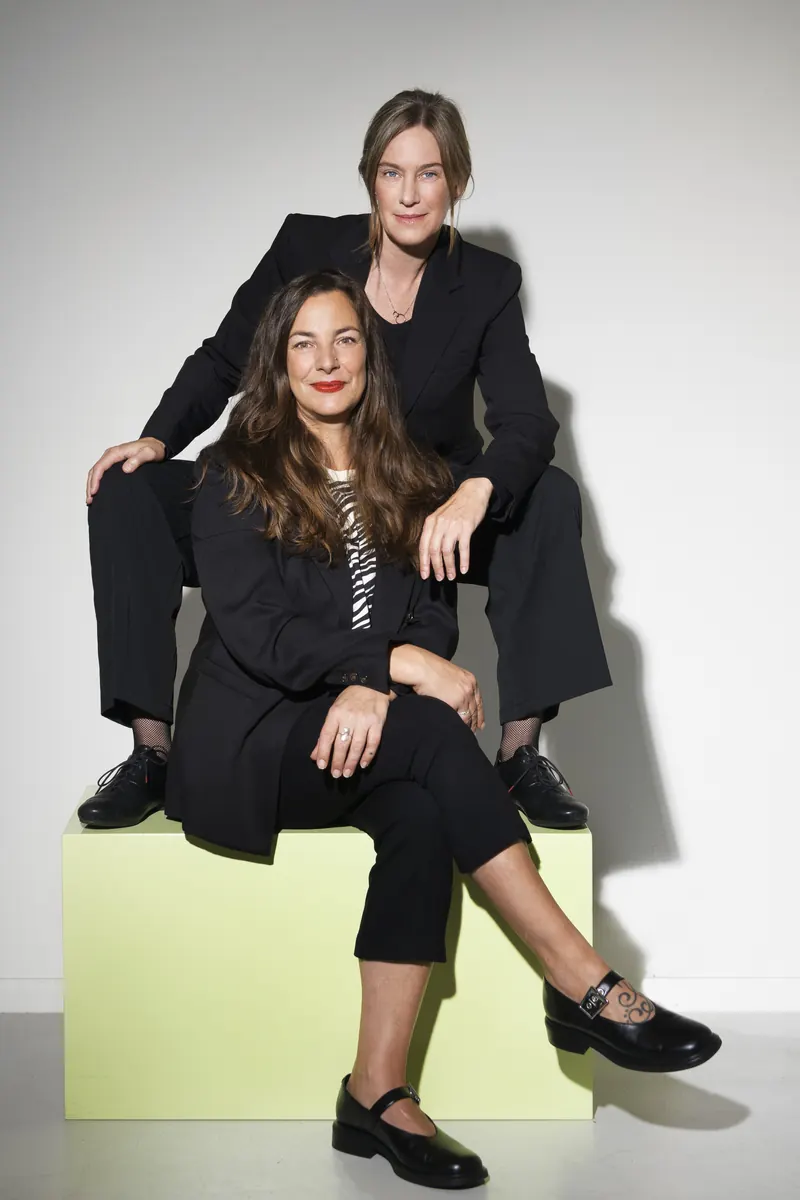
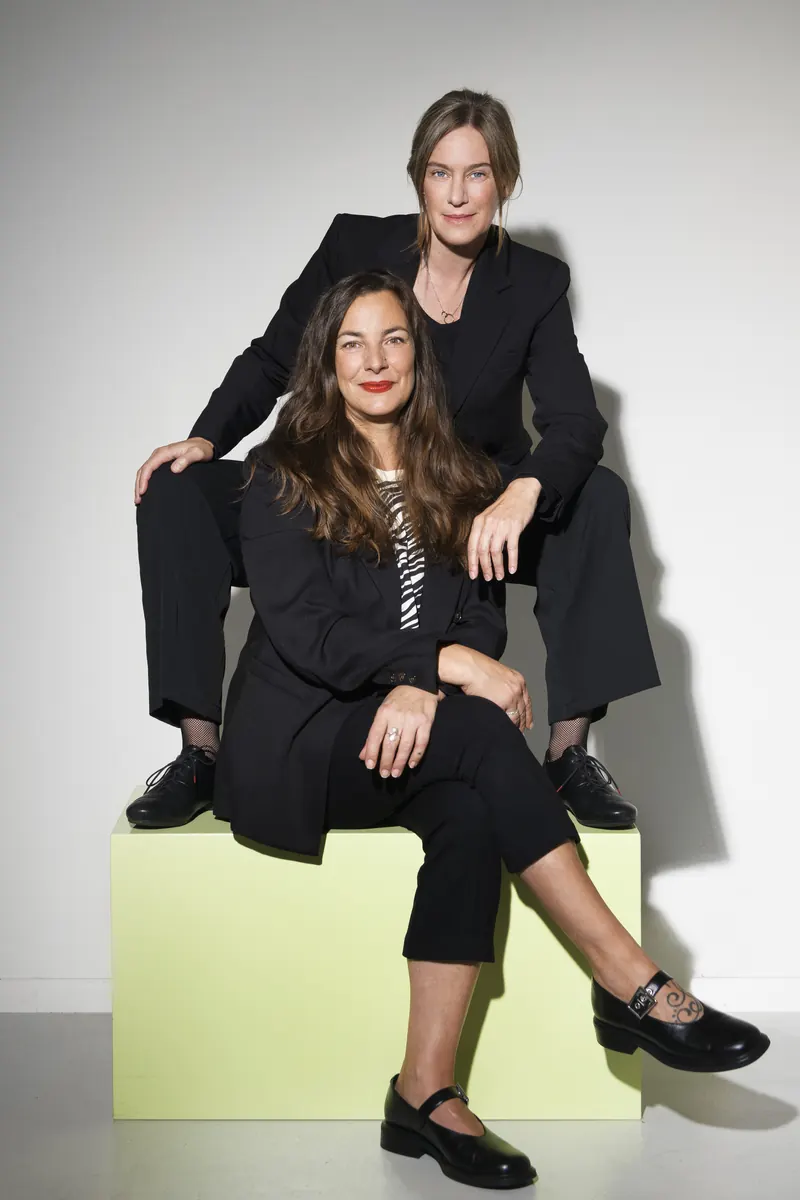
improve

diff --git a/frontend/src/components/HeroSection.styled.ts b/frontend/src/components/HeroSection.styled.ts
@@ -4,10 +4,11 @@ import { enter, settle } from '../motion'
 
 /**
  * Hero füllt zusammen mit der Navigationsleiste genau den Bildschirm.
- * Mobil: Foto vollflächig, Schrift auf Balken. Ab 1024px: Pink, Foto rechts, Text links.
+ * Mobil: Foto vollflächig, Schrift auf Balken. Daneben-Layout (media.hero): Pink, Foto rechts.
  */
 export const HeroBand = styled.section`
   --hero-x: max(clamp(1.25rem, 5.5vw, 5rem), calc((100% - 1600px) / 2));
+  --photo-w: min(540px, 38vw, calc((100svh - ${({ theme }) => theme.navHeight}) * 0.62));
   position: relative;
   overflow: hidden;
   height: calc(100vh - ${({ theme }) => theme.navHeight});
@@ -35,60 +36,72 @@ export const Photo = styled.div`
   }
 
   ${media.hero} {
-    inset: ${({ theme }) => theme.spacing.xxl} var(--hero-x) 0 auto;
-    width: min(540px, 38%);
+    inset: clamp(1rem, 7svh, 4rem) var(--hero-x) 0 auto;
+    width: var(--photo-w);
     border: ${({ theme }) => theme.borderStructural};
     border-bottom: none;
 
     img {
-      object-position: 50% 15%;
+      object-position: 50% 10%;
     }
   }
 `
 
+/**
+ * Textblock. Mobil unten, exakt mittig. Daneben-Layout: mittig in der Fläche links vom Foto.
+ * Container, damit die Schriftgrösse sich nach der verfügbaren Breite richtet.
+ */
 export const Content = styled.div`
   position: absolute;
   z-index: 1;
   left: var(--hero-x);
   right: var(--hero-x);
   bottom: clamp(1.5rem, 5svh, 3rem);
+  container-type: inline-size;
+  text-align: center;
 
   ${media.hero} {
     top: 0;
     bottom: 0;
+    right: calc(var(--photo-w) + 2 * var(--hero-x));
     display: flex;
     flex-direction: column;
+    align-items: center;
     justify-content: center;
   }
 `
 
 export const Title = styled.h1`
+  display: flex;
+  flex-direction: column;
+  align-items: center;
   font-weight: 400;
   font-size: inherit;
 `
 
+/** «zusammen» ist rund 3.75em breit: 24cqi lässt mobil Platz für die Balken-Innenabstände. */
 export const Slogan = styled.span`
   display: flex;
   flex-direction: column;
-  align-items: flex-start;
+  align-items: center;
   gap: 6px;
   font-family: var(--font-display);
   font-weight: 400;
-  font-size: clamp(2.75rem, min(10svh, 21vw), 5.5rem);
+  font-size: clamp(2.5rem, min(10svh, 24cqi), 6rem);
   line-height: 1;
   letter-spacing: 0.025em;
   text-transform: lowercase;
 
   ${media.hero} {
     gap: 0;
-    font-size: clamp(6rem, min(12.5vw, 22svh), 11.25rem);
+    font-size: clamp(2.5rem, min(25cqi, 22svh), 11.25rem);
     line-height: 0.92;
-    margin-left: -0.02em;
   }
 `
 
+/** padding-left in Höhe des letter-spacing, damit der Nachlauf die Mitte nicht verschiebt. */
 export const Bar = styled.span`
-  padding: 4px 14px 6px;
+  padding: 4px 14px 6px calc(14px + 0.025em);
   background: ${({ theme }) => theme.colors.paper};
   white-space: nowrap;
   ${enter(100)}
@@ -98,14 +111,14 @@ export const Bar = styled.span`
   }
 
   ${media.hero} {
-    padding: 0;
+    padding: 0 0 0 0.025em;
     background: none;
   }
 `
 
 export const Claim = styled.span`
   display: inline-block;
-  max-width: 300px;
+  max-width: min(300px, 100%);
   margin-top: 10px;
   padding: ${({ theme }) => `${theme.spacing.sm} 12px`};
   background: ${({ theme }) => theme.colors.ink};
@@ -113,14 +126,15 @@ export const Claim = styled.span`
   font-weight: 700;
   font-size: 0.9375rem;
   line-height: 1.25;
+  text-wrap: balance;
   ${enter(320)}
 
   ${media.hero} {
     max-width: 520px;
-    margin-top: ${({ theme }) => theme.spacing.xl};
+    margin-top: clamp(1rem, 4svh, 2rem);
     padding: 0;
     background: none;
     color: ${({ theme }) => theme.colors.ink};
-    font-size: clamp(1.25rem, 1.8vw, 1.625rem);
+    font-size: clamp(1rem, min(1.8vw, 3.2svh), 1.625rem);
   }
 `

diff --git a/frontend/src/components/AboutPhoto.styled.ts b/frontend/src/components/AboutPhoto.styled.ts
@@ -40,7 +40,7 @@ const Hit = styled.button`
 
 /** Hintere Person (Nicole Wyss): Rechteck, liegt im DOM vor der vorderen. */
 export const HitBack = styled(Hit)`
-  left: 7.9%;
+  left: 13.9%;
   top: 6.6%;
   width: 73.7%;
   height: 65.8%;
@@ -50,31 +50,31 @@ export const HitBack = styled(Hit)`
 export const HitFront = styled(Hit)`
   inset: 0;
   clip-path: polygon(
-    33.8% 23.2%,
-    40.5% 22.4%,
-    45.3% 26.1%,
-    50.1% 30.5%,
-    52.9% 35%,
-    53.9% 40%,
-    52.5% 42%,
-    52.5% 48.3%,
-    56.4% 48.9%,
-    56.8% 54.1%,
-    61.1% 57.6%,
-    61.1% 60.5%,
-    62.1% 62.4%,
-    60.7% 64.3%,
-    61.6% 69.5%,
-    66.3% 70%,
-    95.1% 84.7%,
-    95.1% 100%,
-    37.6% 100%,
-    33.8% 72%,
-    22.2% 72%,
-    22.2% 38.8%,
-    25.1% 36.2%,
-    28% 31.1%,
-    30.9% 26.1%
+    39.8% 23.2%,
+    46.5% 22.4%,
+    51.3% 26.1%,
+    56.1% 30.5%,
+    58.9% 35%,
+    59.9% 40%,
+    58.5% 42%,
+    58.5% 48.3%,
+    62.4% 48.9%,
+    62.8% 54.1%,
+    67.2% 57.6%,
+    67.2% 60.5%,
+    68.2% 62.4%,
+    66.8% 64.3%,
+    67.7% 69.5%,
+    72.3% 70%,
+    100% 84.7%,
+    100% 100%,
+    43.6% 100%,
+    39.8% 72%,
+    28.2% 72%,
+    28.2% 38.8%,
+    31.2% 36.2%,
+    34% 31.1%,
+    36.9% 26.1%
   );
 
   /* Mit clip-path wäre der Fokusring abgeschnitten: beim Tastaturfokus den ganzen Rahmen zeigen. */

diff --git a/frontend/src/components/AboutSection.styled.ts b/frontend/src/components/AboutSection.styled.ts
@@ -14,7 +14,8 @@ export const NameList = styled.div`
 
 export const NameButton = styled.button`
   display: flex;
-  align-items: flex-end;
+  align-items: center;
+  justify-content: center;
   min-height: 44px;
   padding: ${({ theme }) => theme.spacing.md};
   border: ${({ theme }) => theme.borderStructural};
@@ -25,7 +26,8 @@ export const NameButton = styled.button`
   font-size: clamp(1.25rem, 2.5vw, 2.25rem);
   line-height: 1;
   letter-spacing: -0.03em;
-  text-align: left;
+  text-align: center;
+  text-wrap: balance;
   cursor: pointer;
   transition:
     background 0.15s ease-out,

diff --git a/frontend/src/theme.ts b/frontend/src/theme.ts
@@ -57,7 +57,8 @@ export const media = {
   sm: `@media (min-width: ${bp.sm})`,
   md: `@media (min-width: ${bp.md})`,
   lg: `@media (min-width: ${bp.lg})`,
-  hero: `@media (min-width: ${bp.hero})`,
+  /** Hero nebeneinander: ab 1024px oder auf Handys quer (sonst verdeckt der Text die Gesichter). */
+  hero: `@media (min-width: ${bp.hero}), (orientation: landscape) and (min-width: 560px)`,
   maxSm: `@media (max-width: ${bp.sm})`,
   maxMd: `@media (max-width: ${bp.md})`,
 } as const

diff --git a/frontend/src/components/HeroActions.styled.ts b/frontend/src/components/HeroActions.styled.ts
@@ -8,7 +8,7 @@ export const Actions = styled.div`
 
   ${media.hero} {
     display: flex;
-    margin-top: ${({ theme }) => theme.spacing.xl};
+    margin-top: clamp(0.5rem, 3svh, 2rem);
     ${enter(440)}
   }
 `
